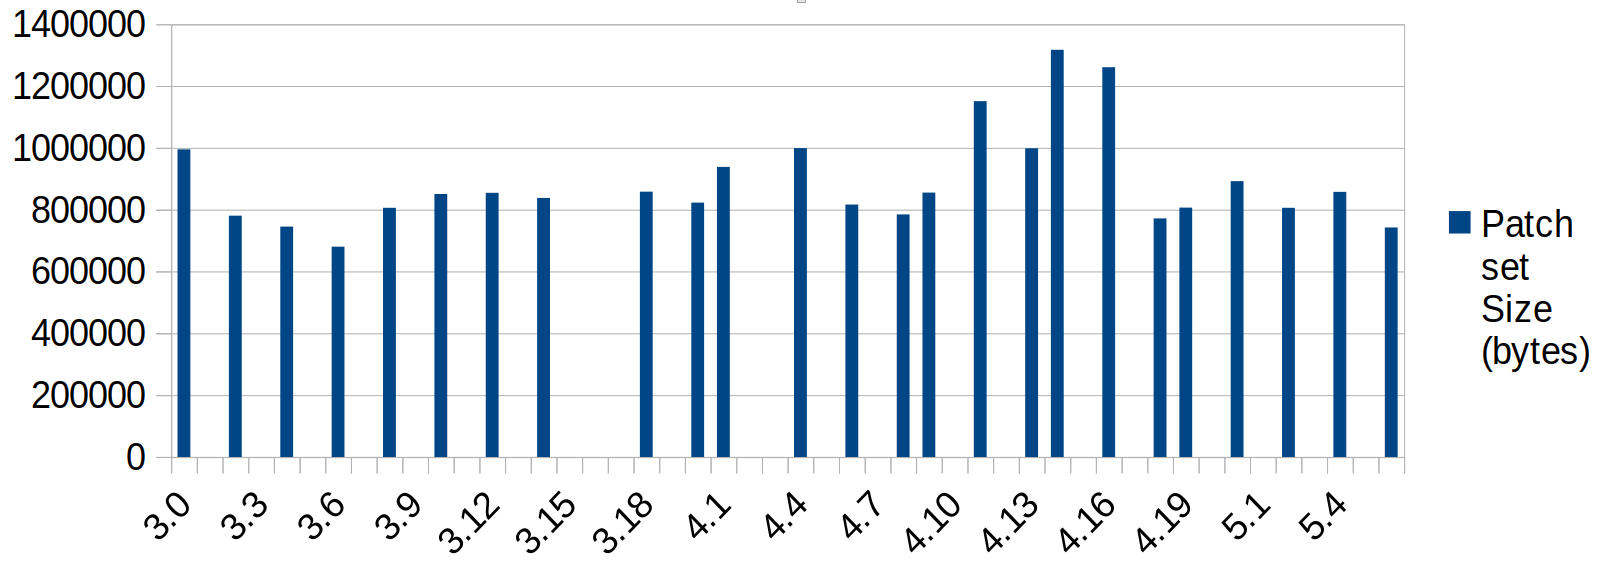
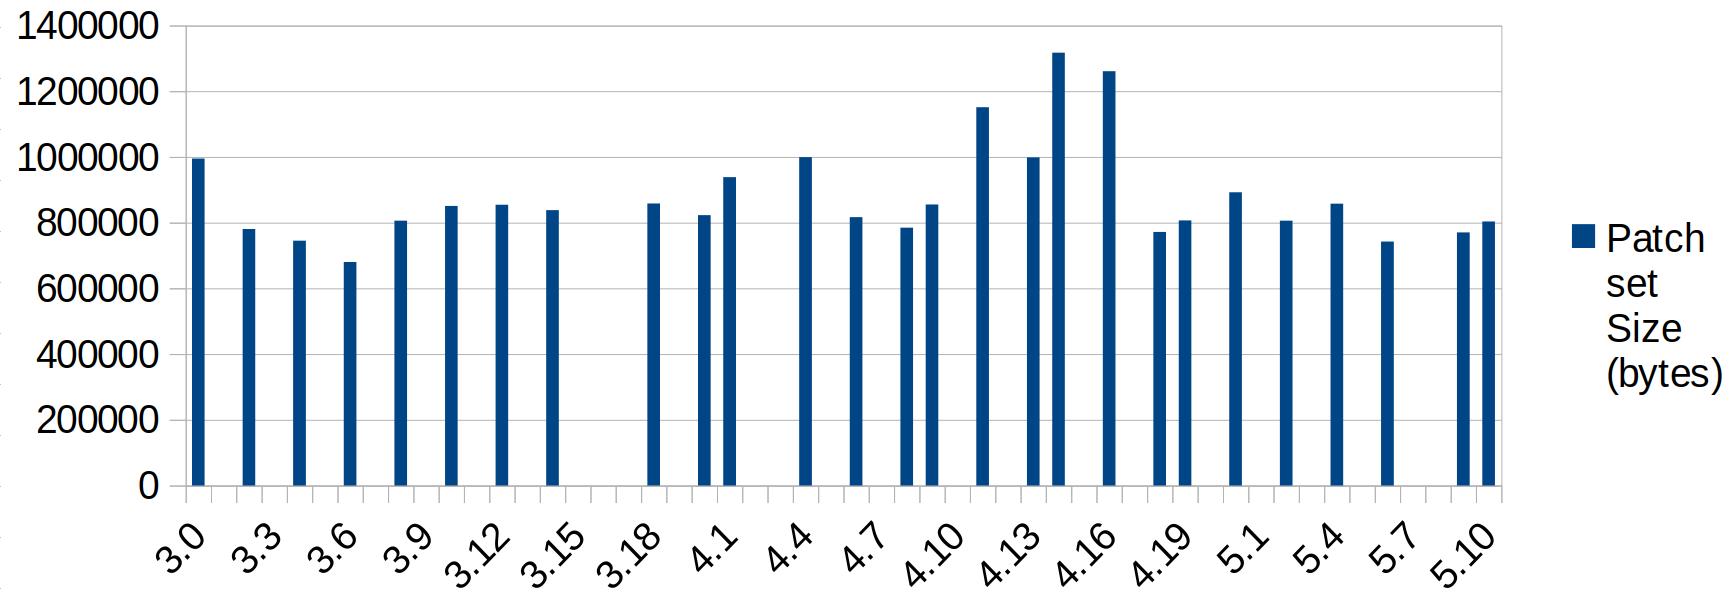
Realtime slides: update information about supported kernel versions
- Also update the chart with the size of kernel patches

Changed region(s): [[0.0, 0.0938, 0.8745, 0.9688], [0.9057, 0.3438, 0.9994, 0.6562], [0.0, 0.0, 0.0937, 0.0625]]

diff --git a/slides/sysdev-realtime/sysdev-realtime.tex b/slides/sysdev-realtime/sysdev-realtime.tex
@@ -504,13 +504,12 @@
   \item PREEMPT\_RT is delivered as a patch against the mainline
     kernel
     \begin{itemize}
-    \item Best to have a board supported by the mainline kernel,
-      otherwise the PREEMPT\_RT patch may not apply and may require
-      some adaptations
-    \item Similarly, only long term stable releases of the kernel
-      are supported, currently: 5.9, 5.4, 4.19, 4.14, 4.9, 4.4.
-      This is yet another advantage of using an LTS kernel release!
-    \item Officially supported versions:
+    \item Only long term stable releases of the kernel
+      are actively supported and maintained, currently: 5.10, 5.4, 4.19,
+      4.14, 4.9, 4.4. This is yet another advantage of using a mainline
+      LTS kernel release! It will be difficult to port the patches to
+      other kernel versions.
+    \item Access to supported versions:
       \url{https://wiki.linuxfoundation.org/realtime/preempt_rt_versions}
     \end{itemize}
   \item Quick set up:
